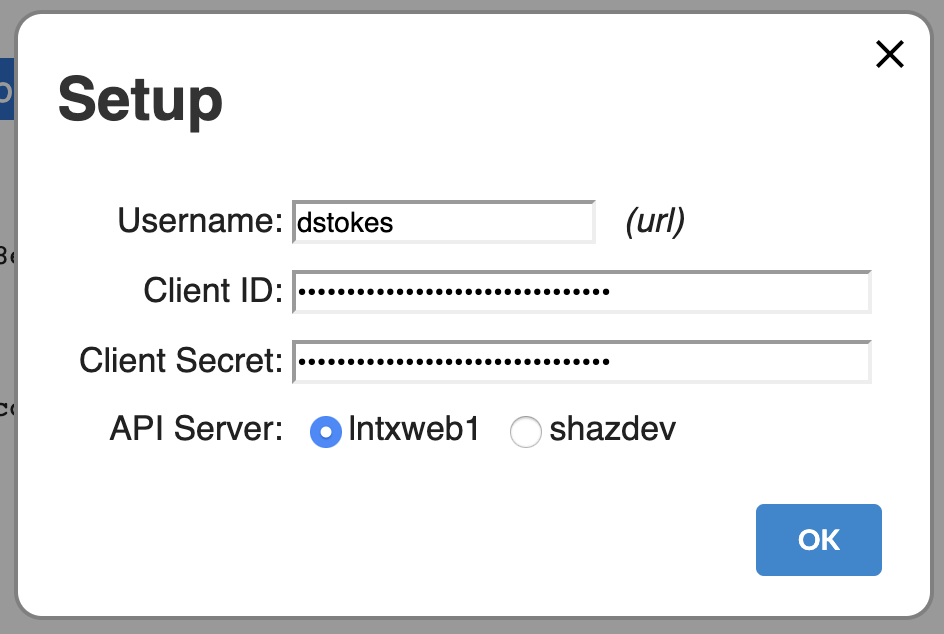
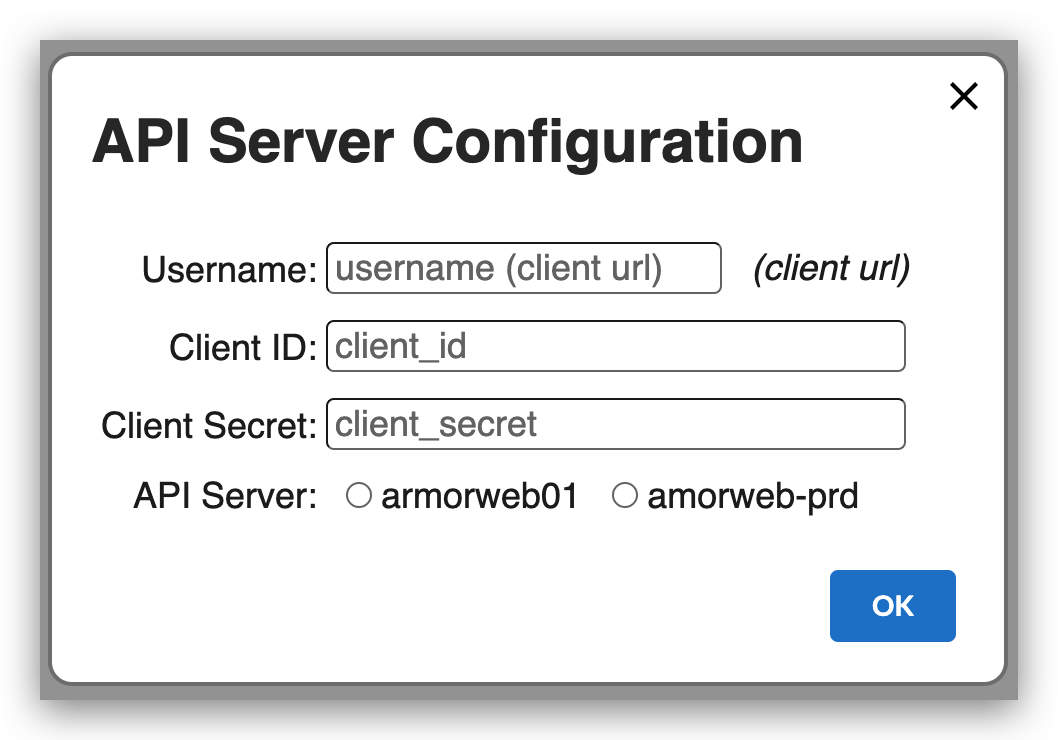
New setup dialog image.

diff --git a/README.md b/README.md
@@ -39,7 +39,7 @@ The first time you open the app, you will be presented with a screen asking you 
 
 The dialog will look something like this:
 
-<img src="https://github.com/deverl/oauth_test/blob/master/docs/images/setup-dialog.png" width="500">
+<img src="https://github.intuit.com/dstokes1/oauth_test/blob/master/docs/images/setup-dialog.png" width="500">
 
 Enter all of these values and press the **OK** button to continue.
 
